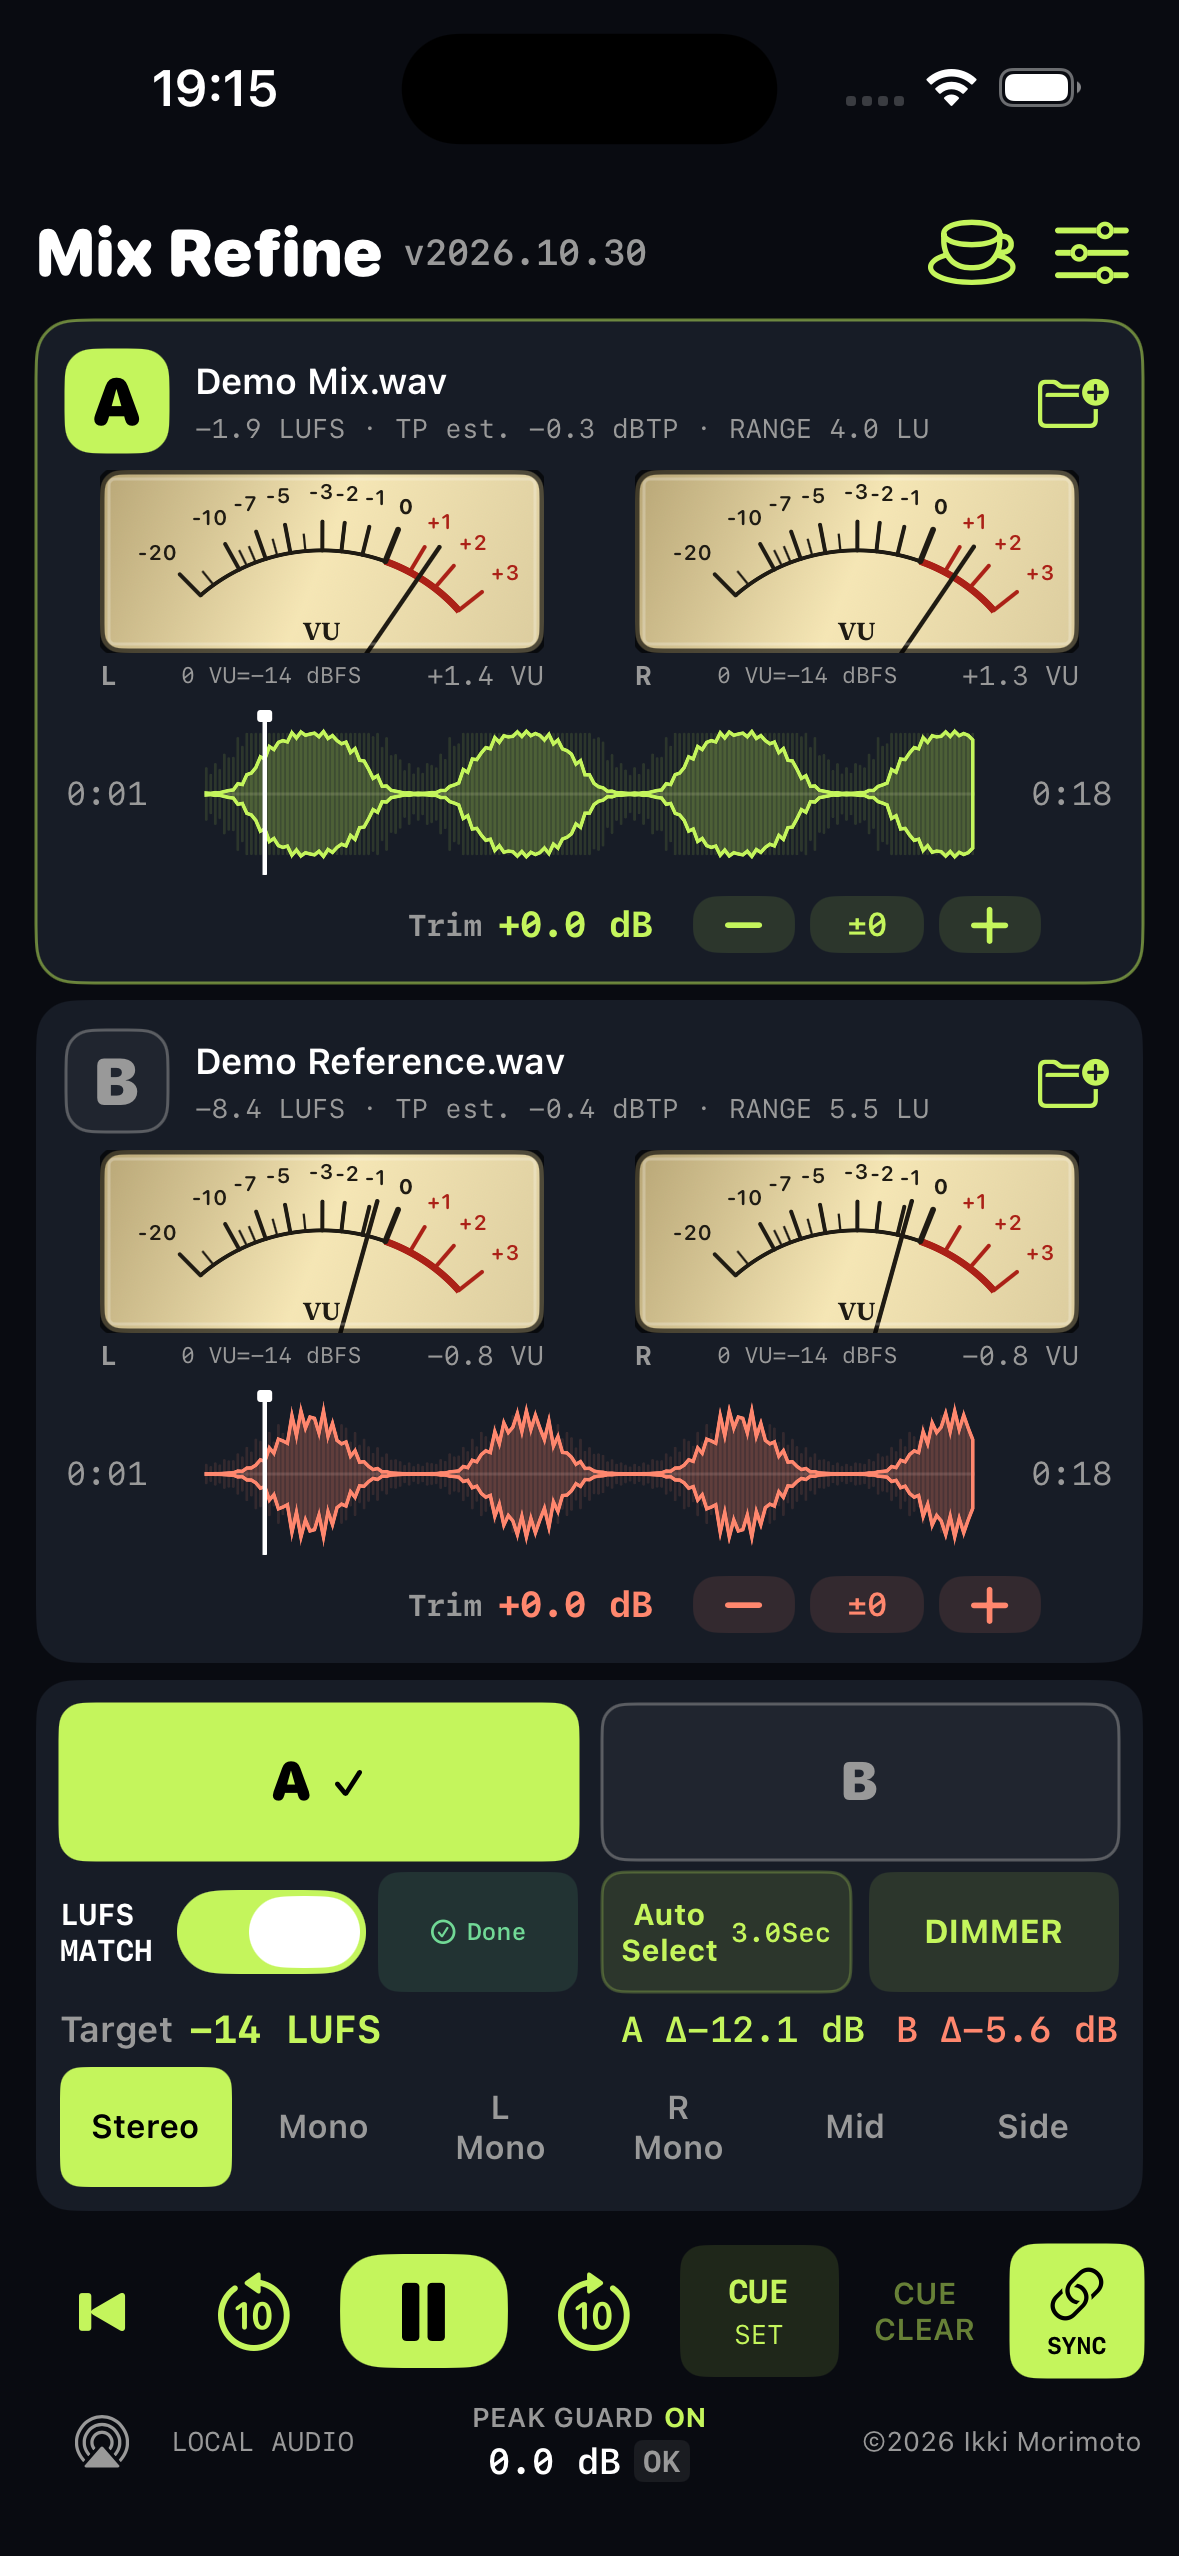
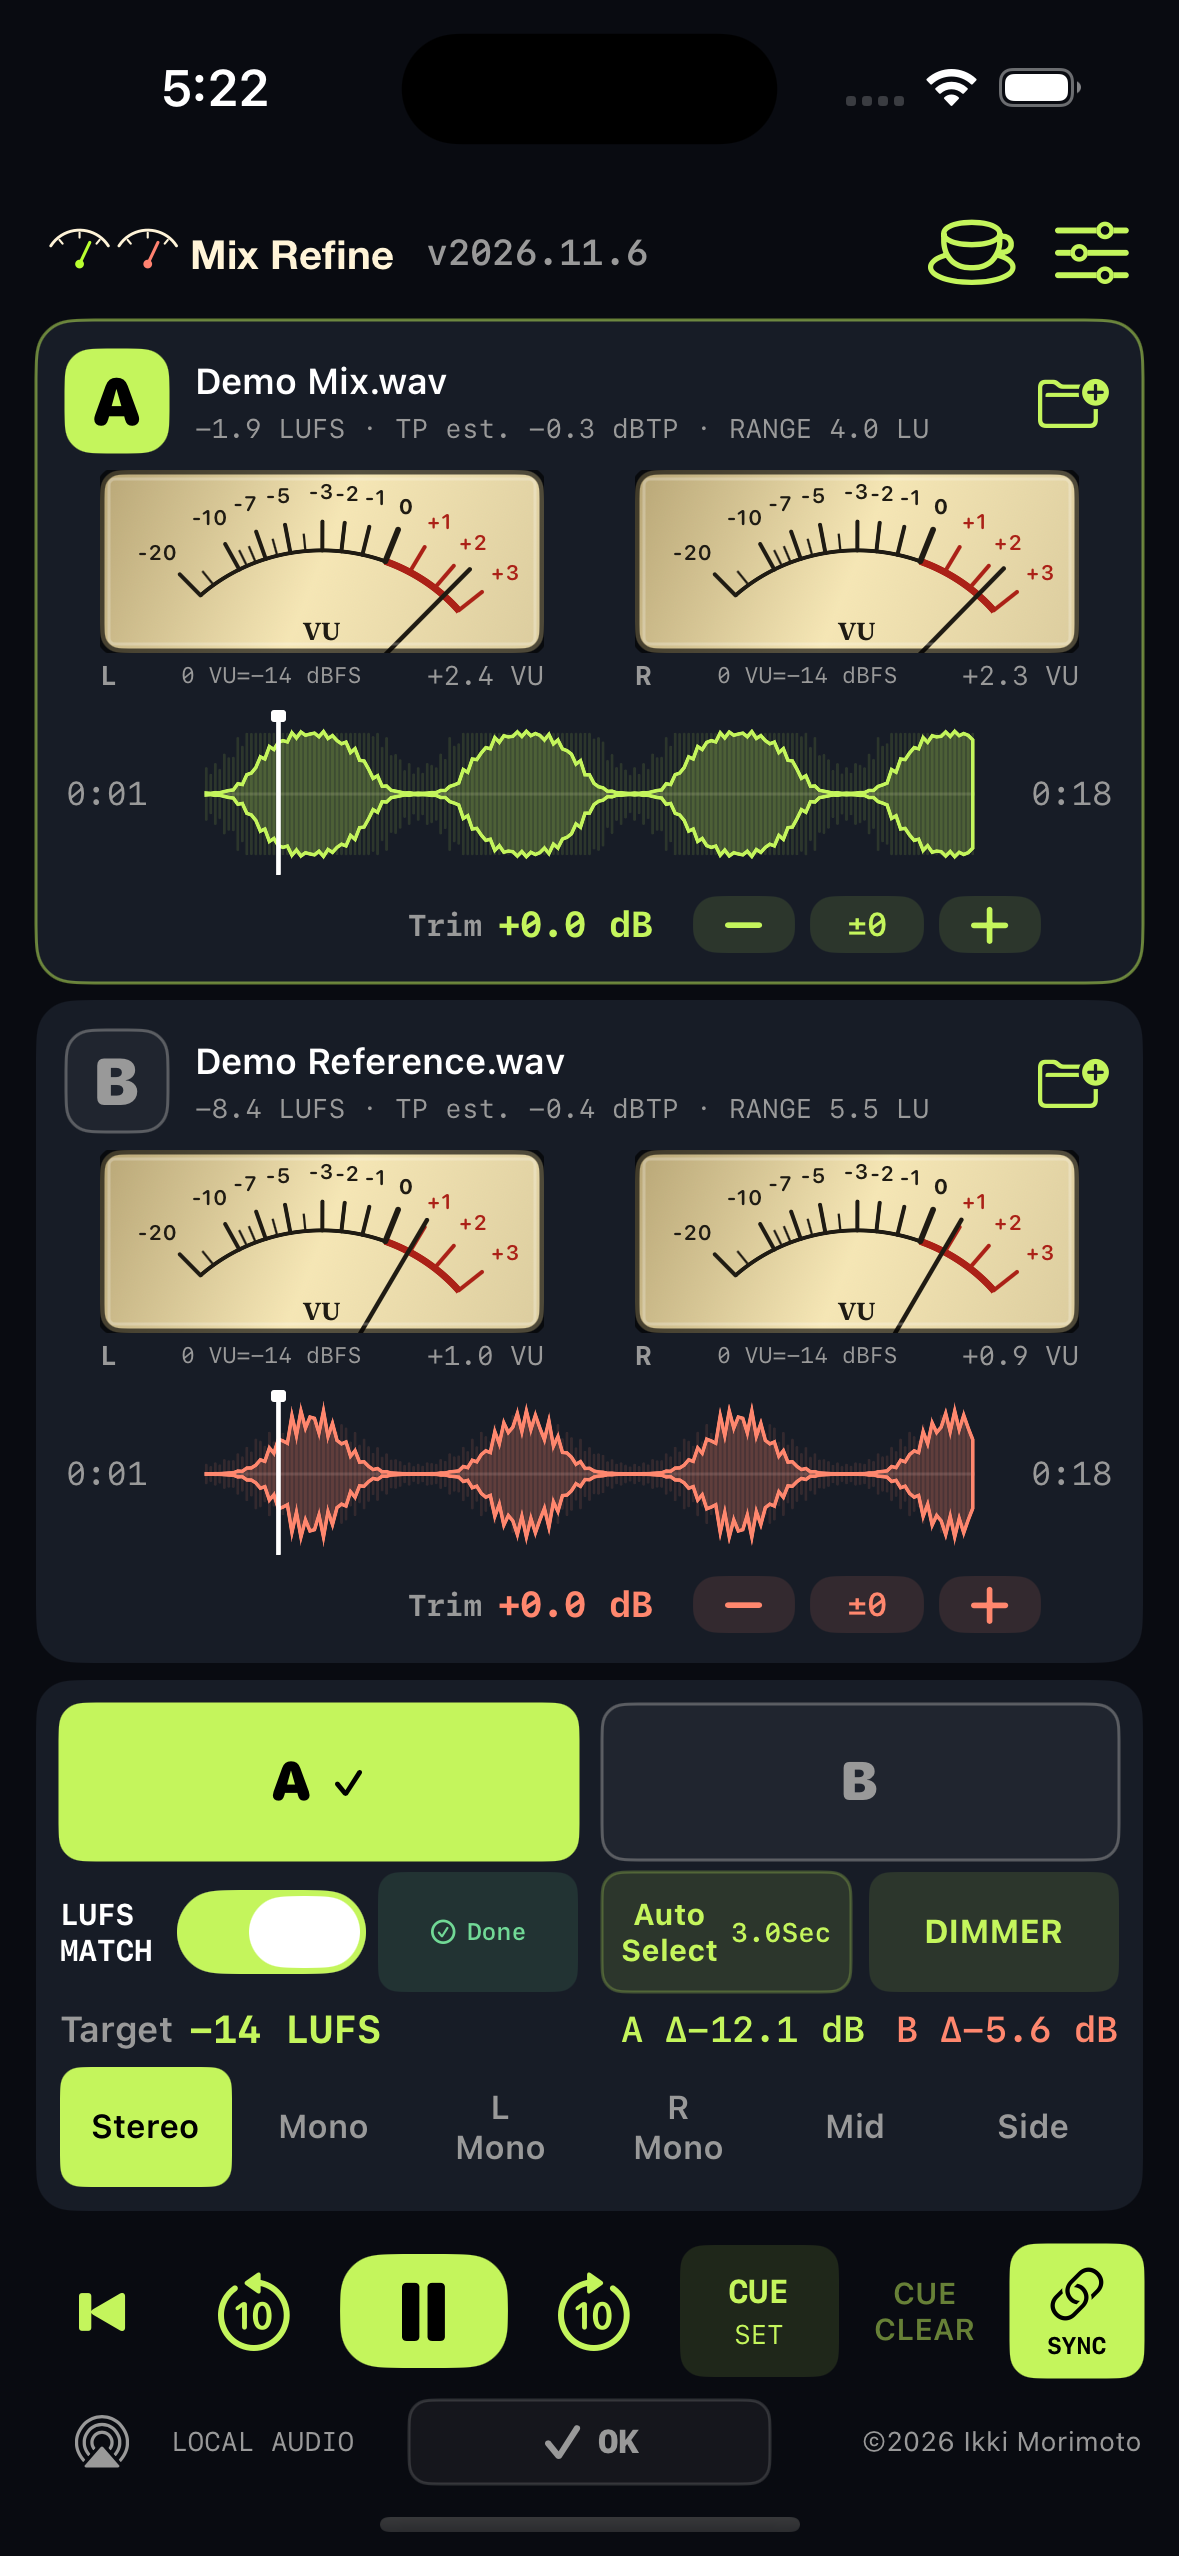
Update 2026.11.6 branding and screenshots

diff --git a/assets/site.css b/assets/site.css
@@ -5,3 +5,5 @@
 /* Keep the Japanese headline on natural phrase boundaries at every width. */
 .hero h1{font-size:clamp(36px,4vw,56px);white-space:pre-line}
 @media(max-width:620px){.hero h1{font-size:36px}}
+
+.release-note{margin-top:28px;font-size:14px;max-width:850px}
